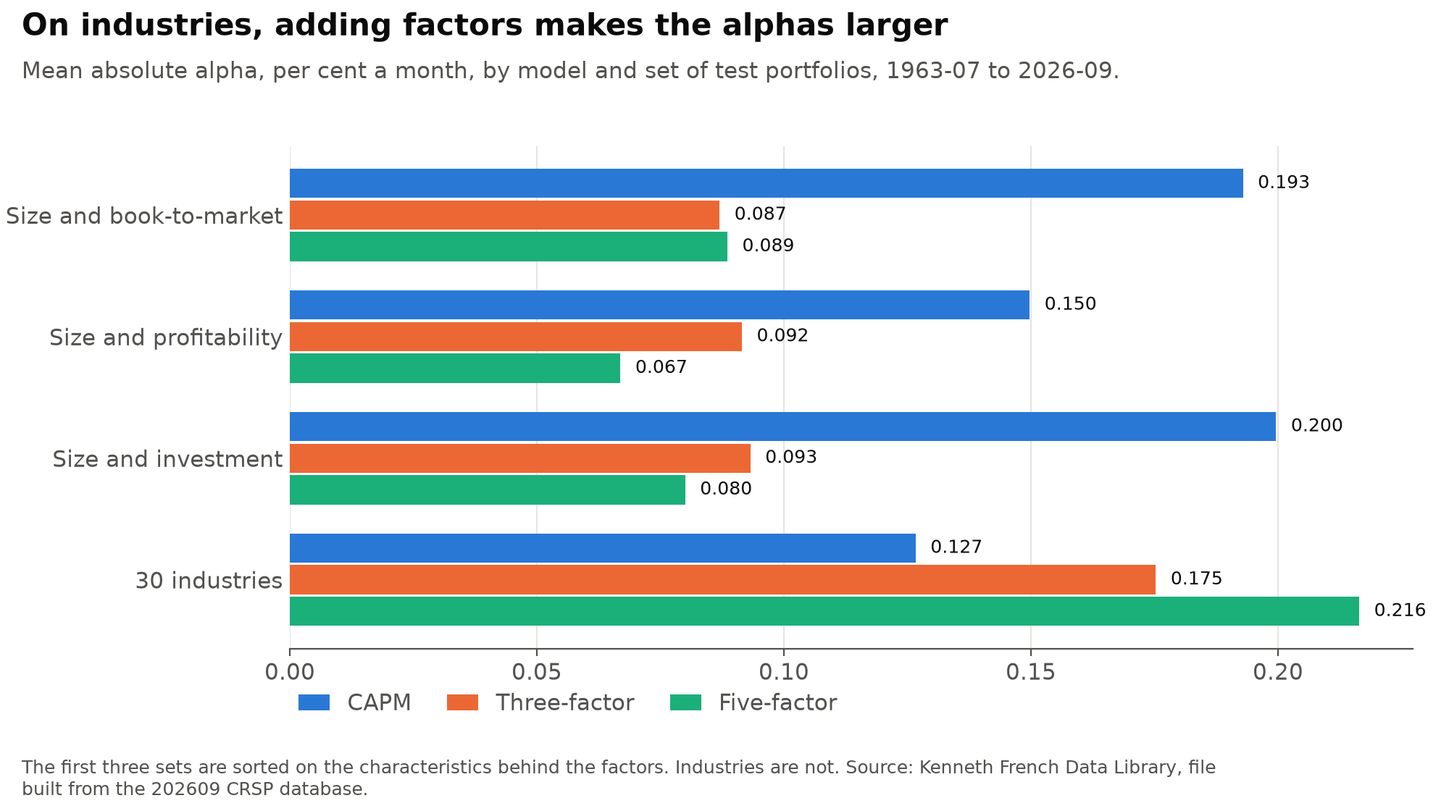
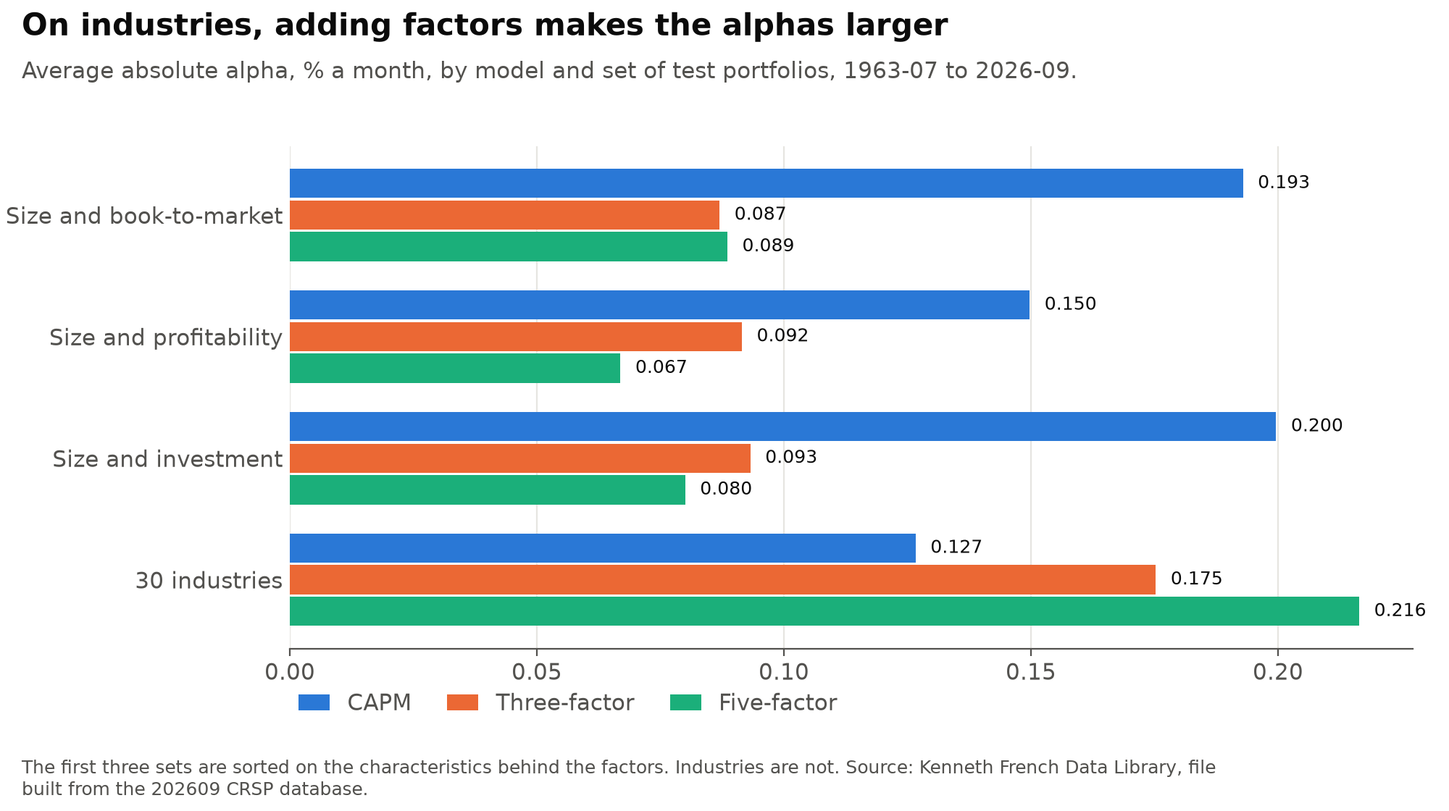
Explain the tests in plain language and drop the course name

Changed region(s): [[0.0, 0.0625, 0.775, 0.0938]]

diff --git a/figures.py b/figures.py
@@ -56,11 +56,11 @@ def capm_line():
     fig.subplots_adjust(left=0.075, right=0.975, top=0.8, bottom=0.26, wspace=0.08)
     capm_panel(axes[0], None, "1926-07 to 2026-09")
     capm_panel(axes[1], COMMON_START, "1963-07 to 2026-09")
-    axes[0].set_ylabel("Mean excess return, % a month")
+    axes[0].set_ylabel("Average excess return, % a month")
     axes[0].legend(loc="upper left", bbox_to_anchor=(0, -0.17), ncol=3, handlelength=1.6, columnspacing=1.4, labelcolor=MUTED, borderaxespad=0)
-    save(fig, "capm_line.png", "Market beta says little about mean returns, and since 1963 the slope is negative",
-         "Mean excess return of the 25 size and book-to-market portfolios against market beta.",
-         "The dashed line runs through the origin with the market's own mean excess return as its slope. " + SOURCE)
+    save(fig, "capm_line.png", "Market beta says little about average returns, and since 1963 the slope is negative",
+         "Average return above the T-bill rate of the 25 size and book-to-market portfolios, against market beta.",
+         "The dashed line is the CAPM: it starts at zero and rises by the market's average excess return per unit of beta. " + SOURCE)
 
 
 def model_fit():
@@ -76,10 +76,10 @@ def model_fit():
         ax.scatter(d.fitted, d["mean"], s=45, color=COLOURS[model], edgecolor="white", linewidth=1, zorder=3)
         label_corners(ax, d.fitted, d["mean"], d.portfolio, right=("SMALL LoBM",))
         ax.set_title(f"{model}: R² {models.r2[model]:.2f}, adjusted {models.adj_r2[model]:.2f}", loc="left", fontsize=11, color=INK)
-        ax.set_xlabel("Fitted mean, % a month")
-    axes[0].set_ylabel("Actual mean, % a month")
+        ax.set_xlabel("Fitted average, % a month")
+    axes[0].set_ylabel("Actual average, % a month")
     save(fig, "model_fit.png", "The factors line up mean returns on these portfolios",
-         "25 size and book-to-market portfolios, 1963-07 to 2026-09. Intercept and prices of risk are free.",
+         "25 size and book-to-market portfolios, 1963-07 to 2026-09. Intercept and factor prices estimated from the data.",
          "A point on the dashed line is priced exactly. Small growth stays well below the line under every model. " + SOURCE)
 
 
@@ -98,11 +98,11 @@ def alphas():
         ax.set_yticks(range(5), ["Small", "2", "3", "4", "Big"] if model == "CAPM" else [""] * 5)
         ax.tick_params(length=0)
         ax.set_xlabel("Book-to-market")
-        ax.set_title(f"{model}: mean |α| {table[model].abs().mean():.3f}", loc="left", fontsize=11, color=INK)
+        ax.set_title(f"{model}: average |α| {table[model].abs().mean():.3f}", loc="left", fontsize=11, color=INK)
         for spine in ax.spines.values():
             spine.set_visible(False)
     save(fig, "alphas.png", "Value is explained by the factors, and small growth only partly",
-         "Alpha of each portfolio, per cent a month, 1963-07 to 2026-09. Blue is below what the model predicts, orange above.",
+         "Average return each model leaves unexplained (alpha), % a month, 1963-07 to 2026-09. Blue below zero, orange above.",
          "The three-factor model takes out most of the value pattern. The five-factor model shrinks the small growth alpha further but raises some others. " + SOURCE)
 
 
@@ -114,11 +114,11 @@ def rolling():
     for model in MODELS:
         ax.plot(when, table[model], color=COLOURS[model], lw=1.8, label=model)
     ax.set_ylim(0, 1)
-    ax.set_ylabel("Cross-sectional R²")
+    ax.set_ylabel("R²")
     ax.legend(loc="upper left", bbox_to_anchor=(0, -0.06), ncol=3, handlelength=1.4, columnspacing=1.6, labelcolor=MUTED, borderaxespad=0)
     save(fig, "rolling_r2.png", "The fit comes and goes",
-         "R² of mean returns on betas over each ten-year window, by the month it ends. 25 size and book-to-market portfolios.",
-         "Betas and means are both re-estimated in each window, so neighbouring points share nine years of data. " + SOURCE)
+         "Share of differences in average returns explained by betas, over each ten-year window, by the month it ends.",
+         "25 size and book-to-market portfolios. Betas and averages are re-estimated in each window, so neighbouring points share nine years of data. " + SOURCE)
 
 
 def by_assets():
@@ -139,7 +139,7 @@ def by_assets():
     ax.grid(axis="y", visible=False)
     ax.legend(loc="upper left", bbox_to_anchor=(0, -0.07), ncol=3, handlelength=1.4, columnspacing=1.6, labelcolor=MUTED, borderaxespad=0)
     save(fig, "alpha_by_assets.png", "On industries, adding factors makes the alphas larger",
-         "Mean absolute alpha, per cent a month, by model and set of test portfolios, 1963-07 to 2026-09.",
+         "Average absolute alpha, % a month, by model and set of test portfolios, 1963-07 to 2026-09.",
          "The first three sets are sorted on the characteristics behind the factors. Industries are not. " + SOURCE)
 
 

diff --git a/README.md b/README.md
@@ -2,84 +2,107 @@
 
 [![tests](https://github.com/atamalfuzi/capm_factor_tests/actions/workflows/tests.yml/badge.svg)](https://github.com/atamalfuzi/capm_factor_tests/actions/workflows/tests.yml)
 
-Does the CAPM hold up on US stock returns through the latest available month, and how much do the Fama-French three- and five-factor models add? Python, with pandas and SciPy.
+Why do some stocks earn more than others on average? The textbook answer is the capital asset pricing model (CAPM): a stock's expected return depends only on its market beta, which measures how strongly it moves with the market as a whole. This project tests that answer on US stock returns from 1926 to September 2026. It also asks how much two well-known extensions add: the Fama-French three-factor model, which adds company size and value, and the five-factor model, which also adds profitability and investment. Python, with pandas and SciPy.
 
-This is a redo of an exercise from ECON 815 (Financial Economics) at Simon Fraser University, Fall 2021, written as a standalone analysis on current data. Results are as of November 2026, with data through September 2026 from the Kenneth French Data Library, in files built from the 202609 CRSP database.
+Results are as of November 2026, with data through September 2026 from the Kenneth French Data Library, in files built from the 202609 CRSP database.
 
 > **Personal project.** This is my own analysis of publicly available data. It is not associated with my work for any current or past employer and does not represent their views.
 
 | Question | Methods | Answer |
 |---|---|---|
-| [Does the old result reproduce?](#1-does-the-old-result-reproduce) | The assignment's regression on its own files | Yes: R² 0.1144 and slope 0.3993. On current files through 2026-09, R² is 0.098. |
-| [Does the CAPM hold up?](#2-does-the-capm-hold-up) | GRS, Fama-MacBeth with Shanken errors | No. GRS rejects it (p below 0.001), and since 1963 the slope on beta is negative. |
-| [How much do the factors add?](#3-how-much-do-the-factors-add) | Same tests, spanning regressions, Hansen-Jagannathan distance | Since 1963, R² goes from 0.08 to 0.66 to 0.75, and mean absolute alpha from 0.19 to 0.09 to 0.09. GRS rejects all three. |
-| [Is that stable?](#4-is-that-stable) | Subperiods, ten-year windows | No. The CAPM is not rejected before 1963, and since 2009 no model's R² is above 0.16. |
-| [Does it depend on the portfolios?](#5-does-it-depend-on-the-portfolios) | Three more sets of test portfolios | Yes. On 30 industries, adding factors makes the alphas larger. |
+| [Does my 2021 result still reproduce?](#1-does-the-2021-result-reproduce) | The same regression on the same files | Yes: an R² of 0.1144 and a slope of 0.3993. With today's files and data through 2026-09, the R² is 0.098. |
+| [Does the CAPM hold up?](#2-does-the-capm-hold-up) | GRS test, Fama-MacBeth regressions | No. The test rejects it (p below 0.001), and since 1963 portfolios with higher betas have earned slightly less on average. |
+| [How much do the extra factors add?](#3-how-much-do-the-extra-factors-add) | The same tests, Hansen-Jagannathan distance, tests between factors | A lot on the usual test portfolios. The share of differences in average returns explained rises from 8% to 66% with three factors and 75% with five. All three models are still rejected. |
+| [Is it stable over time?](#4-is-it-stable-over-time) | Four periods, ten-year windows | No. The CAPM passes before 1963. Since 2009, no model explains more than 16%. |
+| [Does it depend on which portfolios are tested?](#5-does-it-depend-on-which-portfolios-are-tested) | Three more sets of portfolios | Yes. On 30 industry portfolios the CAPM passes, and the extra factors make the errors larger. |
 
-## What it shows
+## How the tests work
 
-Test portfolios are the 25 value-weighted portfolios formed on size and book-to-market, unless stated otherwise. Returns are monthly, in per cent, and in excess of the T-bill rate. The five-factor file starts in 1963-07, so comparisons of all three models use 1963-07 to 2026-09 (759 months).
+The tests use portfolios, groups of stocks sorted by some feature, because single stocks are too noisy. The main set is 25 portfolios formed by sorting US stocks on size (market value) and on book-to-market, the ratio of a company's accounting value to its market value. Stocks with a high book-to-market ratio are called value stocks, and those with a low one growth stocks. Returns are monthly, in per cent, and measured above the one-month Treasury bill rate.
 
-### 1. Does the old result reproduce?
+Each model names one or more factors. A factor is the return on a particular portfolio:
 
-| Sample | Months | R² | Slope | Mean market excess return |
+| Factor | What it is |
+|---|---|
+| Market (Mkt-RF) | The whole US stock market, less the T-bill rate |
+| SMB, small minus big | Small companies less large ones |
+| HML, high minus low | Value stocks less growth stocks |
+| RMW, robust minus weak | Highly profitable companies less weakly profitable ones |
+| CMA, conservative minus aggressive | Companies that invest little less those that invest a lot |
+
+The CAPM uses the market alone. The three-factor model adds SMB and HML, and the five-factor model adds RMW and CMA.
+
+- **Beta and alpha.** Each portfolio's monthly return is regressed on the factors. The slopes are its betas, how strongly it moves with each factor. The intercept is its alpha, the average return the model leaves unexplained. If a model is right, every alpha is zero.
+- **GRS test** (Gibbons, Ross and Shanken, 1989). It asks whether all 25 alphas are zero together. A small p-value means the model is rejected. The test assumes returns are normally distributed, which they are not quite, so I also report a p-value from resampling the data that does not rely on that assumption.
+- **Fama-MacBeth regressions** (Fama and MacBeth, 1973). They ask the question the other way round: do portfolios with higher betas earn higher average returns, and how much more per unit of beta? That amount is the factor's price. If the model is right, the line through the portfolios passes through zero and each factor's price equals its average return. Shanken's (1992) correction allows for the betas being estimates. The R² of this line is the share of the differences in average returns across portfolios that the betas explain. The 2021 result of 11% is this R².
+- **Hansen-Jagannathan distance** (Hansen and Jagannathan, 1997). It is the largest pricing error a model makes on any combination of the test portfolios, with each combination scaled to the same size. Zero is a perfect fit.
+
+The five-factor data start in July 1963, so comparisons of all three models use July 1963 to September 2026, 759 months.
+
+## 1. Does the 2021 result reproduce?
+
+In a 2021 course exercise, I ran this CAPM regression on the 25 portfolios and found that betas explain 11.4% of the differences in average returns. That work is in my [coursework archive](https://github.com/atamalfuzi/economics_coursework/tree/main/Financial%20Economics/Exercise%201).
+
+| Sample | Months | R² | Slope | Average market excess return, % a month |
 |---|---:|---:|---:|---:|
-| Coursework files, 1926-07 to 2020-09 | 1131 | 0.1144 | 0.399 | 0.670 |
-| Coursework files, stopped at 2019-12 | 1122 | 0.1035 | 0.402 | 0.667 |
+| 2021 files, 1926-07 to 2020-09 | 1131 | 0.1144 | 0.399 | 0.670 |
+| 2021 files, stopped at 2019-12 | 1122 | 0.1035 | 0.402 | 0.667 |
 | Current files, 1926-07 to 2020-09 | 1131 | 0.1176 | 0.413 | 0.671 |
 | Current files, 1926-07 to 2026-09 | 1203 | 0.0978 | 0.399 | 0.694 |
 | Current files, 1963-07 to 2026-09 | 759 | 0.0822 | −0.367 | 0.600 |
 
-The first row matches the assignment's reported R² and slope, and a test checks it. The assignment's data ran to 2020-09, so stopping at the end of 2019 does not give its figure.
+The first row matches the 2021 result exactly, and a test checks it. Those files ran to September 2020, so stopping at the end of 2019 gives a different figure.
 
-The assignment used raw returns where excess returns would be usual. This moves the intercept and leaves R² and the slope unchanged, because the T-bill rate shifts every beta by the same amount. Its Sharpe ratio divided by the standard deviation of the total market return, which gives 0.1255 against 0.1253.
+The 2021 exercise used total returns, where returns above the T-bill rate are usual. That changes only the intercept. The R² and the slope stay the same, because the T-bill rate shifts every beta by the same amount. Its Sharpe ratio, the average excess return divided by its standard deviation, used the standard deviation of the total market return instead. That gives 0.1255 against 0.1253.
 
-French's files change over time as CRSP revises its data. Over the same months, the portfolio returns moved by 0.20 points a month on average and by up to 9.4 points in one month (SMALL LoBM, 1945-01), while no portfolio's mean moved by more than 0.016. That is why the same months now give 0.1176.
+French's files change over time as CRSP, the database behind them, corrects its records. Over the same months, portfolio returns moved by 0.20 percentage points a month on average, and by up to 9.4 points in one month (small growth stocks, January 1945). No portfolio's average moved by more than 0.016. That is why the same months now give 0.1176.
 
-### 2. Does the CAPM hold up?
+## 2. Does the CAPM hold up?
 
-![Mean excess return against market beta](figures/capm_line.png)
+![Average excess return against market beta](figures/capm_line.png)
 
-| Sample | GRS F | p, F distribution | p, resampled | Mean absolute alpha | R² | Intercept (Shanken t) | Price of market risk (Shanken t) | Mean market excess return |
+| Sample | GRS F | p-value | p-value, resampled | Average absolute alpha, % a month | R² | Intercept (t) | Price of market risk (t) | Average market excess return |
 |---|---:|---:|---:|---:|---:|---:|---:|---:|
 | 1926-07 to 2026-09 | 3.39 | 5×10⁻⁸ | below 0.001 | 0.154 | 0.098 | 0.41 (1.27) | 0.40 (1.15) | 0.69 |
 | 1963-07 to 2026-09 | 4.17 | 1×10⁻¹⁰ | below 0.001 | 0.193 | 0.082 | 1.16 (3.12) | −0.37 (−0.92) | 0.60 |
 
-The two samples have about the same R², and they say different things. Over the full history the slope has the right sign and is about 60% of the market premium. Since 1963 it is negative, and the intercept, which the CAPM says is zero, is 1.16% a month. The R² alone hides this.
+The t-values in brackets use Shanken's correction. Values beyond about ±2 are significant at the 5% level.
 
-The 95% resampled range for the R² since 1963 is 0.00 to 0.53, so one sample's R² is a rough measure.
+Betas explain a similar small share in both samples, 10% and 8%, but the two samples say different things. Over the full history, higher beta goes with higher average returns, at about 60% of the rate the CAPM predicts. Since 1963 the slope is negative, so higher-beta portfolios earned slightly less. The intercept, which the CAPM says should be zero, is 1.16% a month. The R² alone hides this.
 
-### 3. How much do the factors add?
+The R² from one sample is a rough measure. Resampling the months gives a 95% range of 0.00 to 0.53 for the R² since 1963.
 
-![Actual and fitted mean returns under each model](figures/model_fit.png)
+## 3. How much do the extra factors add?
+
+![Actual and fitted average returns under each model](figures/model_fit.png)
 
 | 1963-07 to 2026-09 | CAPM | Three-factor | Five-factor |
 |---|---:|---:|---:|
 | GRS F | 4.17 | 3.63 | 3.21 |
-| p, F distribution | 1×10⁻¹⁰ | 9×10⁻⁹ | 3×10⁻⁷ |
-| p, resampled | below 0.001 | below 0.001 | below 0.001 |
-| Mean absolute alpha, % a month | 0.193 | 0.087 | 0.089 |
+| p-value | 1×10⁻¹⁰ | 9×10⁻⁹ | 3×10⁻⁷ |
+| p-value, resampled | below 0.001 | below 0.001 | below 0.001 |
+| Average absolute alpha, % a month | 0.193 | 0.087 | 0.089 |
 | Largest absolute alpha | 0.529 | 0.466 | 0.277 |
-| Cross-sectional R² | 0.08 | 0.66 | 0.75 |
-| Adjusted R² | 0.04 | 0.61 | 0.69 |
-| 95% resampled range for R² | 0.00 to 0.53 | 0.22 to 0.85 | 0.39 to 0.90 |
-| R² with intercept zero and prices at factor means | −0.85 | 0.42 | 0.59 |
+| R² | 0.08 | 0.66 | 0.75 |
+| R², adjusted for the number of factors | 0.04 | 0.61 | 0.69 |
+| 95% range for R² | 0.00 to 0.53 | 0.22 to 0.85 | 0.39 to 0.90 |
+| R² with no intercept and each price equal to the factor's average | −0.85 | 0.42 | 0.59 |
 | Hansen-Jagannathan distance | 0.375 | 0.351 | 0.328 |
-| 95% resampled range | 0.339 to 0.513 | 0.316 to 0.480 | 0.278 to 0.451 |
+| 95% range | 0.339 to 0.513 | 0.316 to 0.480 | 0.278 to 0.451 |
 
-The three-factor model does most of the work on these portfolios. It halves the mean absolute alpha and takes out most of the value pattern. The five-factor model leaves the mean alpha where it was and mainly shrinks the largest one, small growth, from −0.47 to −0.28. The R² ranges overlap, so these data do not separate the two models on that measure. All three are rejected.
+On these portfolios the three-factor model does most of the work. It halves the average alpha and removes most of the difference between value and growth stocks. The five-factor model leaves the average alpha about where it was, and mainly shrinks the largest one, for small growth stocks, from −0.47 to −0.28% a month. The R² ranges overlap, so the data cannot tell the two models apart on that measure. All three models are rejected.
 
 ![Alpha of each portfolio under each model](figures/alphas.png)
 
-The row with a zero intercept and prices set at factor means is the stricter measure, since it is what the models actually claim. It can be negative: the CAPM line fits worse than a flat line through the mean.
+The row with no intercept and each price equal to the factor's average is the stricter measure, because that is what the models actually claim. It can be negative. For the CAPM it is −0.85, which means the model's line fits worse than a flat line at the average return.
 
-Free cross-sectional prices can look odd. In the five-factor fit the market's price is −0.49 (Shanken t −1.52) beside an intercept of 1.05. Market betas barely vary across these portfolios, so the two are hard to tell apart. Their sum, 0.56, is close to the market's mean of 0.60. The Shanken correction changes little here, for example moving that t from −1.58, because monthly factor Sharpe ratios are small.
+When the line is not held to the model's claims, the estimated prices can look odd. In the five-factor fit the market's price is −0.49 (t −1.52), with an intercept of 1.05. Market betas are all close to 1 across these portfolios, so the data cannot separate the market's price from the intercept. Their sum, 0.56, is close to the market's average of 0.60. Shanken's correction changes little here. For example, it moves that t-value from −1.58 to −1.52, because monthly factor returns are small relative to their swings.
 
-The Hansen-Jagannathan distance prices the gross returns of the 25 portfolios and the T-bill. A constant discount factor gives 0.400 (0.368 to 0.534), so the factors take off 6%, 12% and 18% of that distance. Each model's distance can only fall as factors are added, and the ranges overlap.
+The Hansen-Jagannathan distance is measured on the 25 portfolios plus the T-bill. A model with no factors, which discounts every return at the same rate, gives 0.400 (range 0.368 to 0.534). The CAPM, three- and five-factor models reduce that by 6%, 12% and 18%. Adding a factor can only reduce the distance, and the ranges overlap.
 
-Whether a factor adds anything can also be tested on the factors alone, by asking whether it has an alpha against the others (five-factor file, 1963-07 to 2026-09):
+Another way to ask whether a factor adds anything is to test whether it earns returns the other factors cannot explain, that is, whether it has an alpha against them. These use the five-factor file, July 1963 to September 2026:
 
-| Added | Against | Alpha, % a month | p |
+| Added | Against | Alpha, % a month | p-value |
 |---|---|---:|---:|
 | SMB and HML | Market | 0.070 and 0.376 | 0.002 |
 | RMW and CMA | Market, SMB, HML | 0.298 and 0.179 | 6×10⁻⁷ |
@@ -88,11 +111,11 @@ Whether a factor adds anything can also be tested on the factors alone, by askin
 | RMW | The other four | 0.335 | 3×10⁻⁵ |
 | CMA | The other four | 0.207 | 1×10⁻⁴ |
 
-HML has no alpha once the other four are in, the result Fama and French (2015) reported, and it still holds through 2026. The highest Sharpe ratio available from the factors rises from 0.47 a year to 0.65 and 0.95.
+HML, the value factor, has no alpha once the other four are included. Fama and French (2015) found this, and it still holds through 2026. Profitability and investment add the most. Combining each model's factors, the best Sharpe ratio available rises from 0.47 a year for the market alone to 0.65 with three factors and 0.95 with five.
 
-### 4. Is that stable?
+## 4. Is it stable over time?
 
-| Period | Model | GRS F | p, F distribution | p, resampled | Mean absolute alpha | R² |
+| Period | Model | GRS F | p-value | p-value, resampled | Average absolute alpha | R² |
 |---|---|---:|---:|---:|---:|---:|
 | 1926-07 to 1963-06 | CAPM | 1.38 | 0.106 | 0.185 | 0.146 | 0.30 |
 | | Three-factor | 1.65 | 0.027 | 0.092 | 0.147 | 0.63 |
@@ -109,17 +132,17 @@ HML has no alpha once the other four are in, the result Fama and French (2015) r
 | | Three-factor | 1.48 | 0.124 | n/a | 0.261 | 0.54 |
 | | Five-factor | 1.64 | 0.076 | n/a | 0.258 | 0.64 |
 
-The last three rows are the months since the assignment's data ended, and they overlap the three above them.
+The last three rows cover the months since the 2021 files ended, and they overlap the three rows above them.
 
-Before 1963 the CAPM is not rejected and beta lines up with mean returns, though the price of market risk is imprecise (0.67, Shanken t 1.22). The three- and five-factor models fit best in 1963 to 1990, close to the period they were built on. Since 2009 their R² has fallen to 0.14 and 0.16, and whether they are rejected depends on the p-value used. The 72 months since 2020-10 are too few to settle much with 25 portfolios.
+Before 1963 the CAPM is not rejected, and higher betas go with higher average returns, though the price of market risk is imprecise (0.67, t 1.22). The three- and five-factor models fit best from 1963 to 1990, close to the period they were designed on. Since 2009 their R² has fallen to 0.14 and 0.16, and whether they are rejected depends on which p-value you use. The 72 months since October 2020 are too few to settle much with 25 portfolios.
 
 ![R² over ten-year windows](figures/rolling_r2.png)
 
-### 5. Does it depend on the portfolios?
+## 5. Does it depend on which portfolios are tested?
 
-![Mean absolute alpha by set of test portfolios](figures/alpha_by_assets.png)
+![Average absolute alpha by set of test portfolios](figures/alpha_by_assets.png)
 
-| 1963-07 to 2026-09 | Model | GRS F | p, resampled | R² | Adjusted R² | R² at factor means |
+| 1963-07 to 2026-09 | Model | GRS F | p-value, resampled | R² | R², adjusted | R² with prices at factor averages |
 |---|---|---:|---:|---:|---:|---:|
 | Size and profitability | CAPM | 2.20 | 0.013 | 0.00 | −0.04 | −0.47 |
 | | Three-factor | 2.48 | 0.003 | 0.57 | 0.51 | 0.31 |
@@ -131,16 +154,18 @@ Before 1963 the CAPM is not rejected and beta lines up with mean returns, though
 | | Three-factor | 2.22 | 0.007 | 0.13 | 0.03 | −1.54 |
 | | Five-factor | 2.76 | 0.002 | 0.20 | 0.03 | −2.56 |
 
-Size and book-to-market portfolios are a low bar, because the factors are built from the same sorts (Lewellen, Nagel and Shanken, 2010). The five-factor model's gain shows up on profitability sorts, as you would expect. On industries the pattern reverses: the CAPM is not rejected, and the extra factors raise the mean absolute alpha from 0.127 to 0.175 and 0.216. The CAPM's rejection comes from portfolios sorted on these characteristics, and the extra factors' gains do not carry over to portfolios formed another way.
+The size and book-to-market portfolios are an easy test for the factor models, because the factors are built from the same sorts (Lewellen, Nagel and Shanken, 2010). The five-factor model's gain shows up mainly on portfolios sorted by profitability, which its profitability factor was designed to capture.
+
+Industry portfolios are not sorted on any of these features, and there the pattern reverses. The CAPM is not rejected, and adding factors raises the average alpha from 0.127 to 0.175 and 0.216. So the CAPM's rejection comes from portfolios sorted on these characteristics, and the extra factors' gains do not carry over to portfolios formed another way.
 
 ## Data and checks
 
-- All returns come from the [Kenneth French Data Library](https://mba.tuck.dartmouth.edu/pages/faculty/ken.french/data_library.html). The five-factor file has its own SMB, which correlates 0.98 with the three-factor file's, so each model uses its own file. The market and T-bill series agree between the two files to within 0.08 and 0 points.
-- `coursework/` holds the assignment's two data files, copied from my public [coursework archive](https://github.com/atamalfuzi/economics_coursework), so the reproduction test runs without a download.
-- GRS assumes normal errors, so I also resample months in blocks of 12 with the alphas taken out. Simulating 200 samples with zero alphas (`output/resampled_size.csv`), the F test rejects at 5% in 4% to 8% of them. The resampled test rejects in about 5% at 759 months, 2% to 3% at 213 and never at 72. So it leans conservative in shorter samples, and it is left out for the 72-month rows, although `output/subperiods.csv` still lists it. With 2000 draws its floor is 0.0005.
-- Betas are full-sample within each period, and fitted means use the same data. Errors in the betas bias prices toward zero. The R² ranges are percentile ranges and not corrected for this.
-- The subperiod rows are several tests on the same data, with no adjustment for that.
-- Tests compare GRS with the squared t of one asset and with statsmodels' multivariate test, check its size by simulation, check Shanken errors against the actual spread of simulated estimates, and check the Hansen-Jagannathan distance against a numerical minimum.
+- All returns come from the [Kenneth French Data Library](https://mba.tuck.dartmouth.edu/pages/faculty/ken.french/data_library.html). The five-factor file has its own version of SMB, which has a correlation of 0.98 with the three-factor file's, so each model uses its own file. The market and T-bill series in the two files differ by at most 0.08 and 0 percentage points.
+- `coursework/` holds the two data files from the 2021 exercise, copied from my public [coursework archive](https://github.com/atamalfuzi/economics_coursework), so the reproduction test runs without a download.
+- The resampled p-value draws months in blocks of 12, after taking out the alphas, and asks how often the GRS statistic comes out as large as the real one. To check it, I simulated 200 samples in which every alpha is zero (`output/resampled_size.csv`). The usual GRS test wrongly rejects at the 5% level in 4% to 8% of them. The resampled test does so in about 5% at 759 months, 2% to 3% at 213 months, and never at 72. So it is cautious in shorter samples, and it is left out for the 72-month rows, although `output/subperiods.csv` still lists it. With 2000 resamples, its smallest possible value is 0.0005.
+- Betas are estimated over the whole of each period, from the same months as the averages. Errors in estimated betas pull the estimated prices toward zero. The R² ranges are taken directly from the resamples and are not corrected for this.
+- The rows for different periods are separate tests on overlapping data, with no adjustment for testing several times.
+- The tests check the GRS statistic against the squared t-value for a single portfolio and against statsmodels' multivariate test, and check by simulation that it rejects about 5% of the time when the alphas are zero. They check Shanken's standard errors against the actual spread of simulated estimates, and the Hansen-Jagannathan distance against a numerical minimum.
 
 ## Run it
 

diff --git a/SITE.md b/SITE.md
@@ -4,17 +4,42 @@ For the session that integrates the website. Nothing here has been added to the 
 
 ## Portfolio entry
 
-**Title:** Testing the CAPM and the Fama-French factor models through 2026
+**Title:** Does the CAPM still hold? Testing it and the Fama-French factor models through 2026
 
 **Type and year:** Open data analysis in Python, 2026
 
-**Text:** A redo of a graduate financial economics exercise on data through September 2026. It reproduces the original result, then tests the CAPM, three- and five-factor models with GRS, Fama-MacBeth and Hansen-Jagannathan distance. All three are rejected on size and value portfolios. The factors fit those portfolios much better than beta does, but on industry portfolios they make the alphas larger.
+**Text:** Tests of the capital asset pricing model and the Fama-French three- and five-factor models on US stock returns from 1926 to 2026, starting from a reproduction of my 2021 result. All three models are rejected on the usual size and value portfolios, although the factors explain far more of the differences in average returns than market beta does. On industry portfolios the extra factors make the errors larger.
 
 **Links:** Project page, and code at https://github.com/atamalfuzi/capm_factor_tests
 
-## Notes for the page
+## Project page
 
-- Figures: `figures/capm_line.png`, `figures/model_fit.png`, `figures/alpha_by_assets.png`.
+### Summary
+
+The capital asset pricing model (CAPM) says a stock's expected return depends only on its market beta, how strongly it moves with the market as a whole. I test it on US stock returns from 1926 to September 2026, along with the Fama-French three-factor model, which adds company size and value, and the five-factor model, which also adds profitability and investment. The data come from the Kenneth French Data Library.
+
+The tests ask two things. Are the returns a model leaves unexplained, its alphas, zero across 25 portfolios? And do portfolios with higher betas earn higher average returns, by the amount the model predicts?
+
+### The CAPM
+
+Figure: `figures/capm_line.png`
+
+In 2021, betas explained 11.4% of the differences in average returns across these portfolios, and that figure reproduces exactly from the same files. With today's files and data through 2026, it is 9.8%. Since 1963 the relation runs the wrong way, with higher-beta portfolios earning slightly less. The joint test of the alphas rejects the CAPM with a p-value below 0.001.
+
+### What the extra factors add
+
+Figures: `figures/model_fit.png`, then `figures/alphas.png`
+
+Since 1963, the share of differences in average returns explained rises from 8% under the CAPM to 66% with three factors and 75% with five. The three-factor model halves the average alpha. The five-factor model mainly shrinks the largest one, for small growth stocks. All three models are still rejected. The value factor adds nothing once profitability and investment are included, as Fama and French found in 2015.
+
+### Over time, and on other portfolios
+
+Figures: `figures/rolling_r2.png`, then `figures/alpha_by_assets.png`
+
+The CAPM is not rejected before 1963. The factor models fit best from 1963 to 1990, and since 2009 no model explains more than 16%. The usual test portfolios are sorted on the same features the factors are built from, which makes the test easy for the factor models. On 30 industry portfolios the CAPM is not rejected, and adding factors makes the alphas larger.
+
+### Notes for the page
+
 - Use the "Personal project" disclaimer from the README.
 - Keep the note that results describe files built from the 202609 CRSP database.
 - The tables in the README can be reused as they are. The source numbers are in `output/`.
